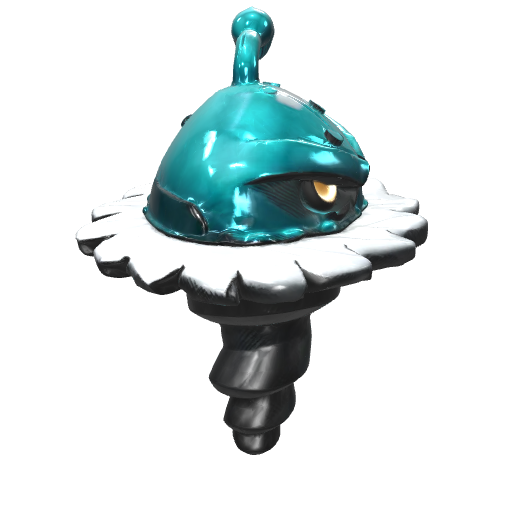
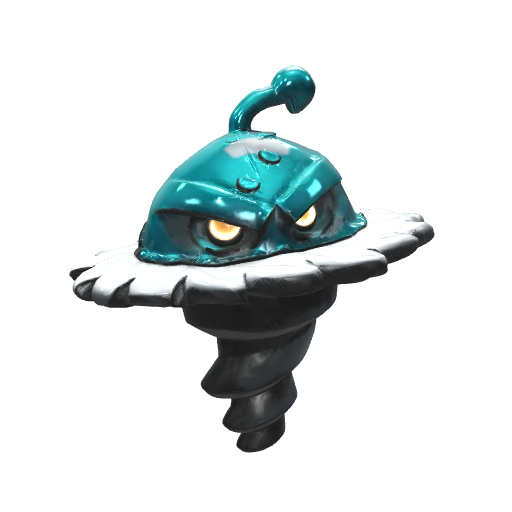
Whirl faces forward: its eyes look along its facing
The model's face points along +x, a quarter turn from the others.

Claude-Session: https://claude.ai/code/session_01Q32VwajNrTyokVNuDpfDQt

Changed region(s): [[0.125, 0.0, 0.8438, 0.9062]]

diff --git a/src/render/three/models.ts b/src/render/three/models.ts
@@ -7,7 +7,7 @@ import { GLTFLoader } from 'three/addons/loaders/GLTFLoader.js';
 import { MeshoptDecoder } from 'three/addons/libs/meshopt_decoder.module.js';
 
 /** Turn so the model's face looks down +z (the arena turns +z to the facing direction). */
-const FRONT_YAW: Record<string, number> = { clank: 0, bruiser: 0, roller: 0, whirl: -0.55, picks: 0 };
+const FRONT_YAW: Record<string, number> = { clank: 0, bruiser: 0, roller: 0, whirl: -Math.PI / 2, picks: 0 };
 
 const loader = new GLTFLoader();
 loader.setMeshoptDecoder(MeshoptDecoder);
